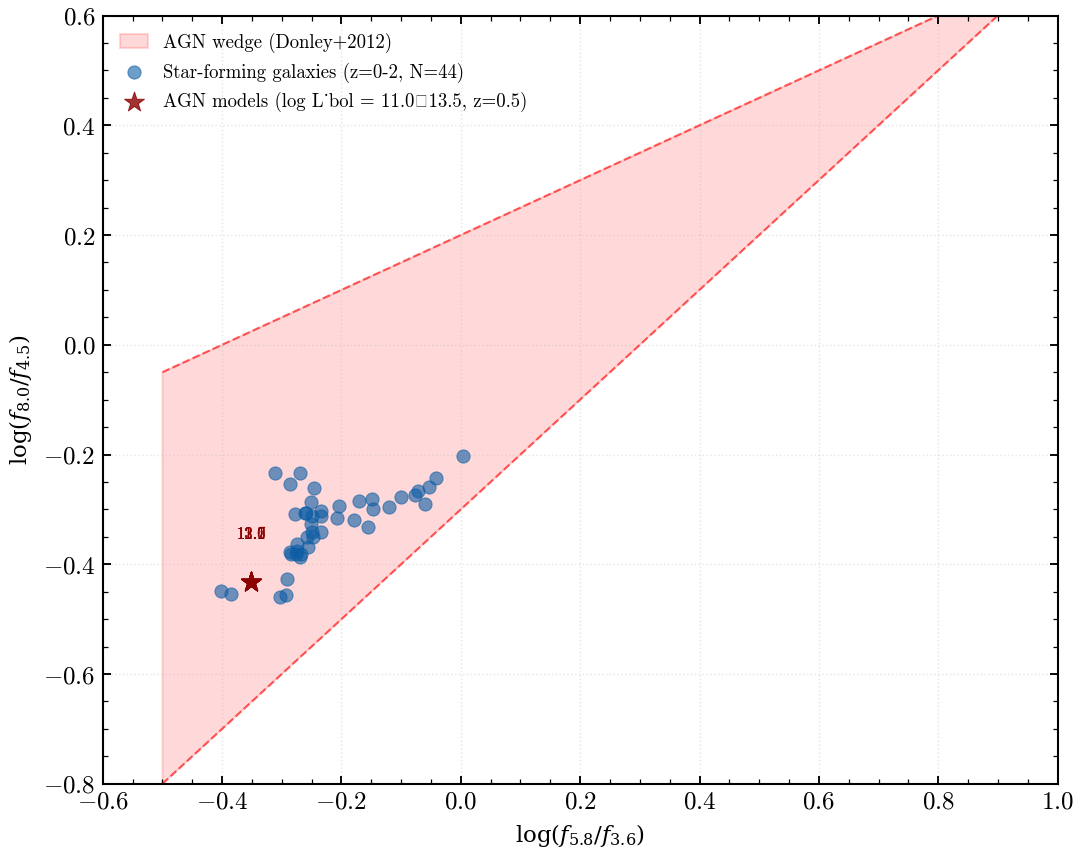
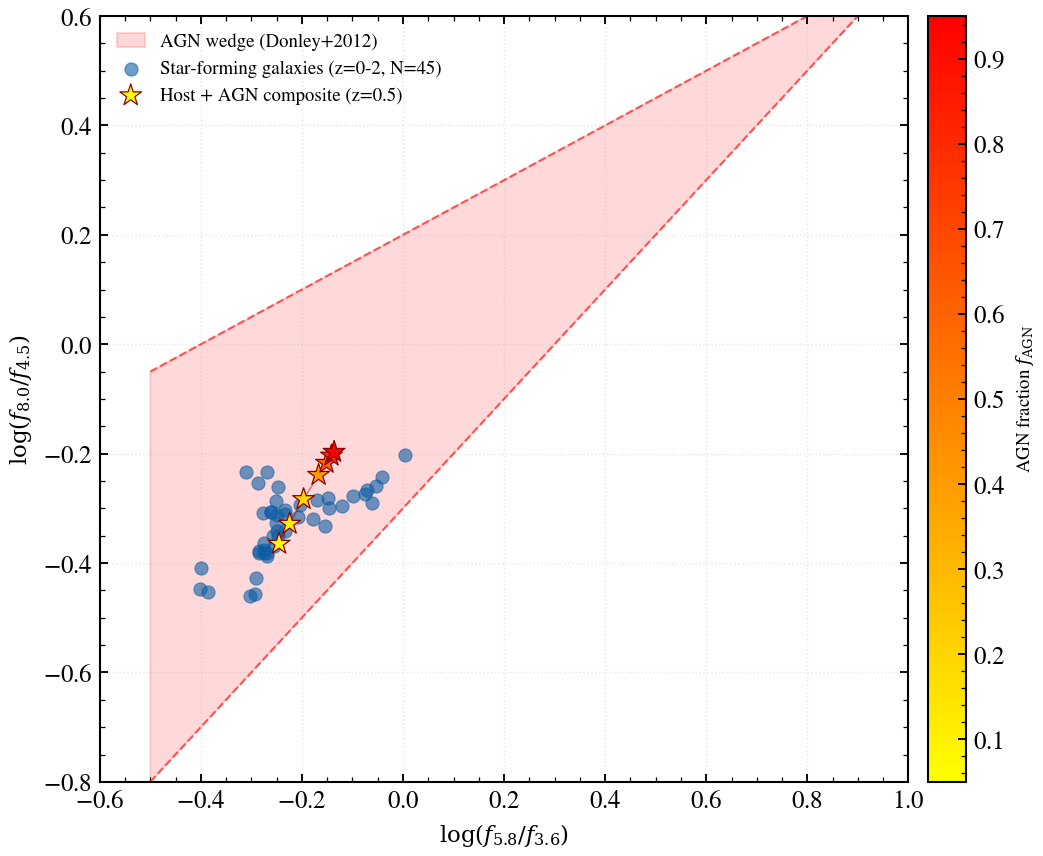
fix(examples/photometry): IRAC AGN wedge sweeps agn_frac (shape), not log_lbol (scale)
The original showed 10 "AGN models" collapsed to a single point because
log_lbol is a normalization parameter — IRAC colours are scale-invariant
ratios. Two underlying bugs:

* AGN dict was missing both 'type: composable' and a torus block, so the
  AGN SED only included the multicolor disc, which has negligible MIR
  contribution. Added skirtor torus + nlr lines, set agn_frac=1.0.
* Swept the wrong parameter. Replaced log_lbol sweep with a composite
  host+AGN sweep over agn_frac (0.05 → 0.95) — the physical quantity
  the wedge actually diagnoses. The track now ascends from the SF
  cloud into the wedge, coloured by AGN fraction.

Public API only (SEDModel.build, predict_photometry).

diff --git a/examples/photometry/plot_spitzer_irac_agn_wedge.py b/examples/photometry/plot_spitzer_irac_agn_wedge.py
@@ -86,26 +86,37 @@ def sample_sf_galaxy(ssp, key, redshift):
     return np.asarray(phot)
 
 
-# --- Helper: create AGN model with fixed bolometric luminosity ---
-def agn_photometry(ssp, log_lbol, redshift):
-    """
-    AGN-dominated SED (minimal host) at fixed bolometric luminosity.
-    """
+# --- Helper: composite (host + AGN) photometry at varying AGN fraction.
+# IRAC colours are *shape* quantities, so varying the AGN bolometric
+# luminosity alone leaves them unchanged. What actually moves a galaxy
+# across the wedge is the relative AGN-to-host contribution in the
+# mid-IR — that is what we sweep here.
+def composite_photometry(ssp, agn_frac, redshift):
     model = tengri.SEDModel.build(
         ssp_data=ssp,
         observation=tengri.Observation(photometry=obs_irac.photometry),
-        sfh={"type": "const", "*": tengri.FIXED, "log_sfr": -10.0},
+        sfh={
+            "type": "dpl",
+            "*": tengri.FIXED,
+            "log_peak_sfr": 1.0,
+            "tau_gyr": 1.5,
+            "alpha": 2.0,
+            "beta": 2.5,
+        },
         dust={
             "type": "two_component",
             "*": tengri.FIXED,
-            "tau_bc": 0.0,
-            "tau_diff": 0.0,
+            "tau_bc": 0.4,
+            "tau_diff": 0.2,
         },
         agn={
+            "type": "composable",
             "*": tengri.FIXED,
-            "log_lbol": log_lbol,
-            "frac": 1.0,
+            "agn_frac": agn_frac,         # 0 = pure host, 1 = AGN-dominated
+            "agn_log_lbol": 12.5,
             "disc": {"type": "multicolor", "*": tengri.FIXED},
+            "torus": {"type": "skirtor", "*": tengri.FIXED},
+            "lines": {"type": "nlr", "*": tengri.FIXED},
         },
         redshift=tengri.Fixed(redshift),
     )
@@ -138,18 +149,13 @@ mask_sf = np.isfinite(sf_color_x) & np.isfinite(sf_color_y)
 sf_color_x = sf_color_x[mask_sf]
 sf_color_y = sf_color_y[mask_sf]
 
-# --- Generate AGN population (varying log_lbol) ---
-n_agn = 10
-log_lbol_vals = np.linspace(11.0, 13.5, n_agn)
-z_agn = 0.5  # Fixed redshift for AGN sample
+# --- Composite sweep: host → AGN-dominated, fixed z = 0.5 ---
+agn_frac_vals = np.array([0.05, 0.10, 0.20, 0.40, 0.60, 0.80, 0.95])
+z_agn = 0.5
 
-agn_phot = []
-for log_lbol in log_lbol_vals:
-    flux = agn_photometry(ssp, log_lbol, z_agn)
-    agn_phot.append(flux)
-
-agn_phot = np.array(agn_phot)
-
+agn_phot = np.array([
+    composite_photometry(ssp, float(f), z_agn) for f in agn_frac_vals
+])
 agn_color_x = np.log10(agn_phot[:, 2] / agn_phot[:, 0])
 agn_color_y = np.log10(agn_phot[:, 3] / agn_phot[:, 1])
 
@@ -189,30 +195,22 @@ if len(sf_color_x) > 0:
         zorder=3,
     )
 
-# AGN locus
+# Composite host+AGN track, coloured by AGN fraction
 scatter_agn = ax.scatter(
     agn_color_x,
     agn_color_y,
-    s=100,
-    alpha=0.8,
-    color="darkred",
+    s=120,
+    c=agn_frac_vals,
+    cmap="autumn_r",
     marker="*",
     edgecolors="darkred",
-    linewidth=0.5,
-    label=f"AGN models (log L_bol = 11.0–13.5, z={z_agn})",
+    linewidth=0.6,
+    label=f"Host + AGN composite (z={z_agn})",
     zorder=4,
 )
-
-# Annotations on AGN loci
-for i, log_lbol in enumerate(log_lbol_vals[::2]):  # Label every other AGN
-    ax.text(
-        agn_color_x[i * 2],
-        agn_color_y[i * 2] + 0.08,
-        f"{log_lbol:.1f}",
-        fontsize=8,
-        ha="center",
-        color="darkred",
-    )
+ax.plot(agn_color_x, agn_color_y, color="darkred", lw=0.8, alpha=0.4, zorder=3)
+cbar = fig.colorbar(scatter_agn, ax=ax, pad=0.02)
+cbar.set_label(r"AGN fraction $f_{\rm AGN}$", fontsize=9)
 
 ax.set_xlabel(r"$\log(f_{5.8} / f_{3.6})$", fontsize=11)
 ax.set_ylabel(r"$\log(f_{8.0} / f_{4.5})$", fontsize=11)
